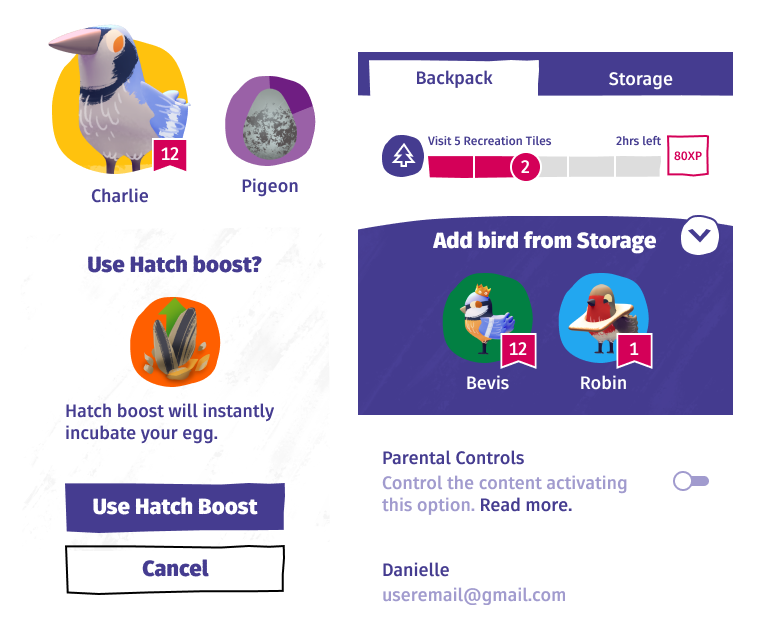
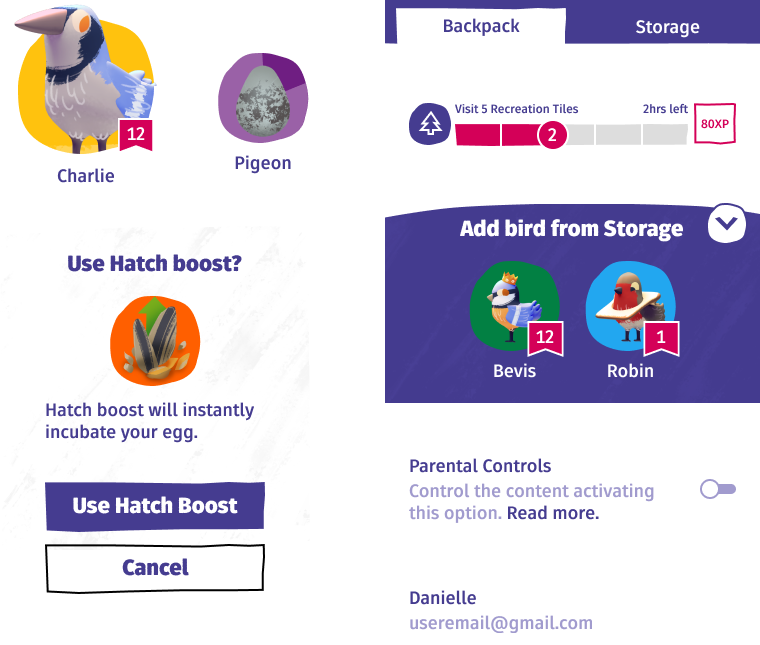
update images and layout

diff --git a/portfolio/preloaded.html b/portfolio/preloaded.html
@@ -72,17 +72,15 @@ layout: default
 <div class="wide-pic-holder">
 	<img alt="IP research range" src="/images/portfolio/preloaded-range.png">
 	<img alt="IP research" src="/images/portfolio/preloaded-ip.jpg">
-</div>
-
-
-<div class="nav-pad"></div>
-
-<div class="wide-pic-holder">
-	<div class="div-breaker-insert">
-	<img alt="IP research range" src="/images/portfolio/preloaded-fancyads.png">
+	<div class="nav-pad no-mobile"></div>
+	<div class="div-breaker-insert mobile-sidepad">
+		<img alt="IP research range" src="/images/portfolio/preloaded-fancyads.png">
 
 	</div>
+
 </div>
+
+
 
 
 <!-- put in in a phone in the middle of a fb feed -->
@@ -113,6 +111,12 @@ layout: default
 		</p>
 		</div>
 		
+		
+	</div>
+</div>
+
+<div class="wide-pic-holder">
+	<div class="mobile-sidepad">
 		<div class="nav-pad"></div>
 		<img alt="OS styles" src="/images/portfolio/OS-type.png">
 		<div class="nav-pad"></div>
@@ -122,10 +126,8 @@ layout: default
 		<div class="nav-pad"></div>
 		<img alt="OS design elements" src="/images/portfolio/OS-elements.png">
 		<div class="nav-pad"></div>
-
-	</div>
 </div>
-
+</div>
 
 <!-- illustration -->
 <div class="wide-pic-holder" style="padding-top:0">
@@ -145,6 +147,7 @@ layout: default
 	-designing maps which intergrate with mapbox, and styled with unity
 	</p>
 	</div>
+	<div class="nav-pad"></div>
 	<img alt="Bird model sheet" src="/images/portfolio/preloaded-models.jpg">
 </div>
 <div class="nav-pad"></div>
